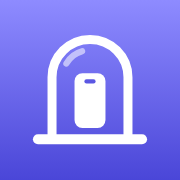
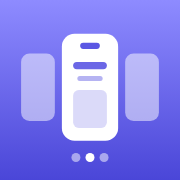
feat: Rename the brand to Storyframe
App Store screenshots tell an app's story frame by frame, each screen in a
device frame, so the name says what the product does. Vitrine needed
explaining; Framed and StoreShots are taken by competing tools.

- New mark: a screenshot carousel (three screens, the middle in focus, page
  dots) in the same indigo; favicon, app icons and share image regenerated.
- Tagline: "Your app's story, frame by frame."
- Name, tutorial welcome (all languages), page metadata, manifest, export
  file names, MCP server name (storyframe), README and CHANGELOG updated.

diff --git a/src/translations.ts b/src/translations.ts
@@ -91,8 +91,8 @@ export const TRANSLATIONS: Record<string, Record<string, string>> = {
     'tutorial.next': 'Next',
     'tutorial.back': 'Back',
     'tutorial.getStarted': 'Let\'s go!',
-    'tutorial.step1.title': 'Welcome to Vitrine',
-    'tutorial.step1.desc': 'Vitrine puts your app in the shop window: beautiful App Store screenshots in minutes. Here’s a one-minute tour.',
+    'tutorial.step1.title': 'Welcome to Storyframe',
+    'tutorial.step1.desc': 'Tell your app’s story in the App Store, one screenshot at a time. Here’s a one-minute tour.',
     'tutorial.step2.title': 'Design Canvas',
     'tutorial.step2.desc': 'Click \'Add Screen\' to place a device. You can drag and drop images directly onto the frames.',
     'tutorial.step3.title': 'Global Languages',
@@ -279,8 +279,8 @@ export const TRANSLATIONS: Record<string, Record<string, string>> = {
     'tutorial.next': 'Weiter',
     'tutorial.back': 'Zurück',
     'tutorial.getStarted': 'Los geht\'s!',
-    'tutorial.step1.title': 'Willkommen bei Vitrine',
-    'tutorial.step1.desc': 'Vitrine stellt deine App ins Schaufenster: schöne App-Store-Screenshots in wenigen Minuten. Hier eine kurze Tour.',
+    'tutorial.step1.title': 'Willkommen bei Storyframe',
+    'tutorial.step1.desc': 'Erzähle die Geschichte deiner App im App Store, Screenshot für Screenshot. Hier eine kurze Tour.',
     'tutorial.step2.title': 'Design-Leinwand',
     'tutorial.step2.desc': 'Klicke auf \'Screen hinzufügen\', um ein Gerät zu platzieren. Du kannst Bilder direkt auf die Rahmen ziehen.',
     'tutorial.step3.title': 'Globale Sprachen',
@@ -467,8 +467,8 @@ export const TRANSLATIONS: Record<string, Record<string, string>> = {
     'tutorial.next': 'Suivant',
     'tutorial.back': 'Retour',
     'tutorial.getStarted': 'Commencer',
-    'tutorial.step1.title': 'Bienvenue sur Vitrine',
-    'tutorial.step1.desc': 'Vitrine met votre app en vitrine : de belles captures App Store en quelques minutes. Voici une visite d’une minute.',
+    'tutorial.step1.title': 'Bienvenue sur Storyframe',
+    'tutorial.step1.desc': 'Racontez l’histoire de votre app dans l’App Store, capture après capture. Voici une visite d’une minute.',
     'tutorial.step2.title': 'Canvas interactif',
     'tutorial.step2.desc': 'Cliquez sur \'Ajouter écran\' pour placer un appareil. Vous pouvez glisser, redimensionner et pivoter les éléments.',
     'tutorial.step3.title': 'Portée mondiale',
@@ -655,8 +655,8 @@ export const TRANSLATIONS: Record<string, Record<string, string>> = {
     'tutorial.next': 'Siguiente',
     'tutorial.back': 'Atrás',
     'tutorial.getStarted': 'Empezar',
-    'tutorial.step1.title': 'Te damos la bienvenida a Vitrine',
-    'tutorial.step1.desc': 'Vitrine pone tu app en el escaparate: capturas del App Store bonitas en minutos. Aquí tienes un recorrido de un minuto.',
+    'tutorial.step1.title': 'Te damos la bienvenida a Storyframe',
+    'tutorial.step1.desc': 'Cuenta la historia de tu app en el App Store, captura a captura. Aquí tienes un recorrido de un minuto.',
     'tutorial.step2.title': 'Lienzo interactivo',
     'tutorial.step2.desc': 'Haz clic en \'Añadir pantalla\' para colocar un dispositivo. Puedes arrastrar, escalar y rotar elementos.',
     'tutorial.step3.title': 'Alcance global',
@@ -843,8 +843,8 @@ export const TRANSLATIONS: Record<string, Record<string, string>> = {
     'tutorial.next': 'Avanti',
     'tutorial.back': 'Indietro',
     'tutorial.getStarted': 'Inizia',
-    'tutorial.step1.title': 'Benvenuto in Vitrine',
-    'tutorial.step1.desc': 'Vitrine mette la tua app in vetrina: splendidi screenshot per l’App Store in pochi minuti. Ecco un tour di un minuto.',
+    'tutorial.step1.title': 'Benvenuto in Storyframe',
+    'tutorial.step1.desc': 'Racconta la storia della tua app nell’App Store, uno screenshot alla volta. Ecco un tour di un minuto.',
     'tutorial.step2.title': 'Canvas interattivo',
     'tutorial.step2.desc': 'Clicca su \'Aggiungi schermo\' per posizionare un dispositivo. Puoi trascinare, scalare e ruotare gli elementi.',
     'tutorial.step3.title': 'Portata globale',
@@ -1031,8 +1031,8 @@ export const TRANSLATIONS: Record<string, Record<string, string>> = {
     'tutorial.next': '次へ',
     'tutorial.back': '戻る',
     'tutorial.getStarted': 'さあ始めましょう',
-    'tutorial.step1.title': 'Vitrine へようこそ',
-    'tutorial.step1.desc': 'Vitrine はあなたのアプリをショーウィンドウに。美しい App Store スクリーンショットを数分で作成できます。1分ツアーをどうぞ。',
+    'tutorial.step1.title': 'Storyframe へようこそ',
+    'tutorial.step1.desc': 'App Store で、スクリーンショット1枚ずつにアプリのストーリーを。1分ツアーをどうぞ。',
     'tutorial.step2.title': 'インタラクティブな編集',
     'tutorial.step2.desc': '「画面を追加」をクリックしてデバイスを配置します。ドラッグ、拡大、回転が自由に行えます。',
     'tutorial.step3.title': 'グローバル対応',
@@ -1219,8 +1219,8 @@ export const TRANSLATIONS: Record<string, Record<string, string>> = {
     'tutorial.next': '下一步',
     'tutorial.back': '返回',
     'tutorial.getStarted': '开始使用',
-    'tutorial.step1.title': '欢迎使用 Vitrine',
-    'tutorial.step1.desc': 'Vitrine 将你的应用放进橱窗：几分钟即可制作精美的 App Store 截图。下面是一分钟导览。',
+    'tutorial.step1.title': '欢迎使用 Storyframe',
+    'tutorial.step1.desc': '在 App Store 中用一张张截图讲述你的应用故事。下面是一分钟导览。',
     'tutorial.step2.title': '交互式画布',
     'tutorial.step2.desc': '点击“添加新画面”来放置设备。您可以直接拖动、缩放和旋转元素。',
     'tutorial.step3.title': '全球化支持',

diff --git a/src/components/BrandMark.tsx b/src/components/BrandMark.tsx
@@ -1,11 +1,11 @@
 import { useId } from 'react';
 
 /**
- * The Vitrine mark: a glass display case (vitrine) showing a phone on a plinth.
- * Same drawing as public/favicon.svg.
+ * The Storyframe mark: an App Store screenshot carousel, three screens with the middle one in
+ * focus and page dots below. Same drawing as public/favicon.svg.
  */
 export const BrandMark = ({ size = 40, className }: { size?: number; className?: string }) => {
-  const gradient = `vitrine-bg-${useId().replace(/:/g, '')}`;
+  const gradient = `storyframe-bg-${useId().replace(/:/g, '')}`;
   return (
     <svg className={className} width={size} height={size} viewBox="0 0 64 64" fill="none" aria-hidden="true">
       <defs>
@@ -15,11 +15,16 @@ export const BrandMark = ({ size = 40, className }: { size?: number; className?:
         </linearGradient>
       </defs>
       <rect width="64" height="64" rx="14.5" fill={`url(#${gradient})`} />
-      <path d="M18.5 48.5V27.5a13.5 13.5 0 0 1 27 0v21" stroke="#fff" strokeWidth="3.2" strokeLinecap="round" />
-      <path d="M23.6 22.6a9.2 9.2 0 0 1 5.6-4.4" stroke="#fff" strokeOpacity=".55" strokeWidth="2.2" strokeLinecap="round" />
-      <rect x="26.5" y="26" width="11" height="19.5" rx="2.8" fill="#fff" />
-      <rect x="30" y="28.2" width="4" height="1.5" rx=".75" fill="#5B57E3" />
-      <path d="M13.5 49.5h37" stroke="#fff" strokeWidth="3.6" strokeLinecap="round" />
+      <rect x="7.5" y="19" width="12" height="24" rx="3" fill="#fff" fillOpacity=".5" />
+      <rect x="44.5" y="19" width="12" height="24" rx="3" fill="#fff" fillOpacity=".5" />
+      <rect x="22" y="12" width="20" height="38" rx="4.5" fill="#fff" />
+      <rect x="28.5" y="15.2" width="7" height="2.2" rx="1.1" fill="#5B57E3" />
+      <rect x="26" y="22" width="12" height="2.6" rx="1.3" fill="#5B57E3" fillOpacity=".9" />
+      <rect x="27.5" y="27" width="9" height="1.8" rx=".9" fill="#5B57E3" fillOpacity=".45" />
+      <rect x="26" y="32" width="12" height="13.5" rx="2" fill="#5B57E3" fillOpacity=".22" />
+      <circle cx="27" cy="56" r="1.6" fill="#fff" fillOpacity=".5" />
+      <circle cx="32" cy="56" r="1.6" fill="#fff" />
+      <circle cx="37" cy="56" r="1.6" fill="#fff" fillOpacity=".5" />
     </svg>
   );
 };

diff --git a/index.html b/index.html
@@ -3,10 +3,10 @@
   <head>
     <meta charset="UTF-8" />
     <meta name="viewport" content="width=device-width, initial-scale=1.0" />
-    <title>Vitrine · App Store screenshots, beautifully framed</title>
-    <meta name="description" content="Vitrine frames your app screenshots for the App Store: iPhone, iPhone Duo, iPad, Mac and Apple Watch, in every language. Free in the browser, or from AI agents over MCP." />
-    <meta name="application-name" content="Vitrine" />
-    <meta name="apple-mobile-web-app-title" content="Vitrine" />
+    <title>Storyframe · App Store screenshots that tell your app's story</title>
+    <meta name="description" content="Storyframe turns your app screenshots into App Store screenshots that tell your app's story: iPhone, iPhone Duo, iPad, Mac and Apple Watch, in every language. Free in the browser, or from AI agents over MCP." />
+    <meta name="application-name" content="Storyframe" />
+    <meta name="apple-mobile-web-app-title" content="Storyframe" />
     <meta name="theme-color" content="#f5f5f7" media="(prefers-color-scheme: light)" />
     <meta name="theme-color" content="#1c1c1e" media="(prefers-color-scheme: dark)" />
     <link rel="icon" type="image/svg+xml" href="/favicon.svg" />
@@ -14,8 +14,8 @@
     <link rel="manifest" href="/site.webmanifest" />
 
     <meta property="og:type" content="website" />
-    <meta property="og:site_name" content="Vitrine" />
-    <meta property="og:title" content="Vitrine · App Store screenshots, beautifully framed" />
+    <meta property="og:site_name" content="Storyframe" />
+    <meta property="og:title" content="Storyframe · Your app's story, frame by frame" />
     <meta property="og:description" content="Frame your app screenshots for iPhone, iPad, Mac and Apple Watch, in every language. Free, in the browser." />
     <meta property="og:url" content="https://screenshots.linkandreas.de/" />
     <meta property="og:image" content="https://screenshots.linkandreas.de/og-image.png" />

diff --git a/mcp/src/server.ts b/mcp/src/server.ts
@@ -64,10 +64,10 @@ const inputHelp = (mode: Mode) => mode.kind === 'stdio'
 
 export const buildServer = (mode: Mode) => {
   const server = new McpServer(
-    { name: 'vitrine', title: 'Vitrine: App Store screenshots', version: VERSION },
+    { name: 'storyframe', title: 'Storyframe: App Store screenshots', version: VERSION },
     {
       instructions:
-        'Vitrine renders App Store marketing screenshots: the app screenshot inside an Apple device frame (iPhone 18/17 Pro Max, ' +
+        'Storyframe renders App Store marketing screenshots: the app screenshot inside an Apple device frame (iPhone 18/17 Pro Max, ' +
         'iPhone Duo open or closed, iPad Pro 13", MacBook Pro/Air, Apple Watch Ultra 3 / Series 11) on a branded background ' +
         'with a headline and description, at the exact sizes App Store Connect requires for each slot. Call get_design_options once, then render_screenshots with a brand ' +
         'and one entry per screen (repeat entries per device and locale). Check the returned previews and adjust. ' +
@@ -321,7 +321,7 @@ const startHttp = (port: number, prefix: string, publicUrl?: string) => {
           const zip = new JSZip();
           for (const [p, png] of result.files) zip.file(p, png);
           const data = await zip.generateAsync({ type: 'nodebuffer', compression: 'DEFLATE', compressionOptions: { level: 6 } });
-          res.writeHead(200, { 'content-type': 'application/zip', 'content-disposition': 'attachment; filename="Vitrine_Screenshots.zip"', 'cache-control': 'private, max-age=3600' });
+          res.writeHead(200, { 'content-type': 'application/zip', 'content-disposition': 'attachment; filename="Storyframe_Screenshots.zip"', 'cache-control': 'private, max-age=3600' });
           return void res.end(data);
         }
         const png = result.files.get(name);

diff --git a/src/index.css b/src/index.css
@@ -22,7 +22,7 @@
   --text-main: #1d1d1f;
   --text-soft: #424245;
   --text-muted: #86868b;
-  /* Vitrine indigo (Apple's system indigo) and the brand gradient of the mark. */
+  /* Storyframe indigo (Apple's system indigo) and the brand gradient of the mark. */
   --accent: #5856d6;
   --accent-hover: #4f4dc9;
   --accent-ink: #ffffff;

diff --git a/src/brand.ts b/src/brand.ts
@@ -1,2 +1,2 @@
 /** Product name, used in the UI, exported file names and the MCP server. */
-export const APP_NAME = 'Vitrine';
+export const APP_NAME = 'Storyframe';

diff --git a/README.md b/README.md
@@ -1,23 +1,24 @@
 <p align="center">
-  <img src="public/icon-192.png" width="96" height="96" alt="Vitrine logo">
+  <img src="public/icon-192.png" width="96" height="96" alt="Storyframe logo">
 </p>
 
-<h1 align="center">Vitrine</h1>
+<h1 align="center">Storyframe</h1>
 
-<p align="center"><b>App Store screenshots, beautifully framed.</b></p>
+<p align="center"><b>Your app's story, frame by frame.</b></p>
 
-<p align="center"><b>🔗 <a href="https://screenshots.linkandreas.de/">Open Vitrine</a></b></p>
+<p align="center"><b>🔗 <a href="https://screenshots.linkandreas.de/">Open Storyframe</a></b></p>
 
 [![Version](https://img.shields.io/badge/version-1.11.0-blue.svg)](package.json)
 [![License: MIT](https://img.shields.io/badge/License-MIT-blue.svg)](https://opensource.org/licenses/MIT)
 [![React](https://img.shields.io/badge/React-19-blue?logo=react)](https://react.dev/)
 [![Vite](https://img.shields.io/badge/Vite-6-purple?logo=vite)](https://vitejs.dev/)
 
-Vitrine (a glass display case, the shop window for your best things) puts your app on show: drop in
-your app's screenshots, pick a layout, a background and a frame, and export pixel-perfect App Store
-screenshots for every device and language. Free in the browser, or from AI agents over MCP.
+App Store screenshots tell your app's story, one frame at a time. Storyframe turns your app's raw
+screenshots into that story: pick a layout, a background and an Apple device frame, write the
+headlines, and export pixel-perfect screenshots for every device and language. Free in the browser,
+or from AI agents over MCP.
 
-![Vitrine](public/og-image.png)
+![Storyframe](public/og-image.png)
 
 *Coded using Google Antigravity.*
 
@@ -75,7 +76,7 @@ screenshots for every device and language. Free in the browser, or from AI agent
 
 ## 🤖 MCP Server for AI Agents
 
-The `mcp/` package is Vitrine's [Model Context Protocol](https://modelcontextprotocol.io) server that renders
+The `mcp/` package is Storyframe's [Model Context Protocol](https://modelcontextprotocol.io) server that renders
 the same screenshots as the editor (same frames, layout and typefaces) without a browser, so an AI
 agent can produce a complete, branded set from your app's raw screenshots.
 
@@ -85,11 +86,11 @@ Add `https://screenshots.linkandreas.de/mcp` as a remote MCP server (Streamable 
 
 ```bash
 # Claude Code
-claude mcp add --transport http vitrine https://screenshots.linkandreas.de/mcp
+claude mcp add --transport http storyframe https://screenshots.linkandreas.de/mcp
 ```
 
 In Claude (web/desktop) add it under *Settings → Connectors → Add custom connector*; in Cursor add
-`{"mcpServers": {"vitrine": {"url": "https://screenshots.linkandreas.de/mcp"}}}` to
+`{"mcpServers": {"storyframe": {"url": "https://screenshots.linkandreas.de/mcp"}}}` to
 `.cursor/mcp.json`.
 
 The hosted server can't read files on your machine. Pass screenshots as https URLs, or upload them
@@ -106,7 +107,7 @@ Results come back as download links (each PNG plus a ZIP of the set) that expire
 
 ```bash
 npm run mcp:install && npm run mcp:build
-claude mcp add vitrine -- node "$PWD/mcp/dist/server.js"
+claude mcp add storyframe -- node "$PWD/mcp/dist/server.js"
 ```
 
 Locally, `image` can be a file path and the PNGs are written to `outputDir` (default
@@ -137,7 +138,7 @@ Screenshots of another accepted size (e.g. Mac 1440 × 900) or the same aspect r
 
 Example request to an agent:
 
-> Use the Vitrine tools to make App Store screenshots for my habit tracker from
+> Use the Storyframe tools to make App Store screenshots for my habit tracker from
 > `./shots/*.png`, in English and German. Brand: cream background `#f3ede2`, ink text, Instrument
 > Serif headlines, Cosmic Orange frame.
 

diff --git a/CHANGELOG.md b/CHANGELOG.md
@@ -1,15 +1,15 @@
 # Changelog
 
-All notable changes to Vitrine (formerly the App Store Screenshot Generator). The app's "What's New" sheet is
+All notable changes to Storyframe (formerly the App Store Screenshot Generator). The app's "What's New" sheet is
 generated from this file, so keep the format: `## [version] - YYYY-MM-DD`, an optional one-line
 summary, then `- ` bullets.
 
 ## [Unreleased]
 
-Meet Vitrine: the screenshot generator has a name, a logo and its own colour, plus ready-made layouts and precise placement.
+Meet Storyframe: the screenshot generator has a name, a logo and its own colour, plus ready-made layouts and precise placement.
 
-- New name and look: Vitrine, a glass display case for your app, with an indigo accent, a new icon and a home-screen icon when added to your phone.
-- Exported ZIPs are named after Vitrine, for example Vitrine_iPhone_6.9_en-US.zip.
+- New name and look: Storyframe, because App Store screenshots tell your app's story frame by frame. With an indigo accent, a new icon and a home-screen icon when added to your phone.
+- Exported ZIPs are named after Storyframe, for example Storyframe_iPhone_6.9_en-US.zip.
 - Seven layouts to start from, shown as live previews of your screen: Classic, Big & Bold, Rising, Floating, Tilted Left, Tilted Right and Text Below.
 - Text can now sit below the device.
 - Fine-tune any layout: position, size, tilt, left/right and up/down are always at hand, the device snaps to the centre while dragging, and the arrow keys nudge it (Shift for bigger steps).
